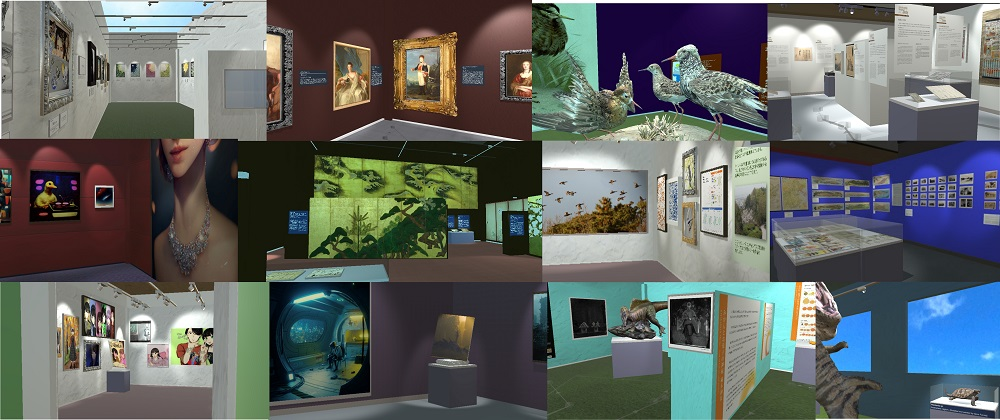
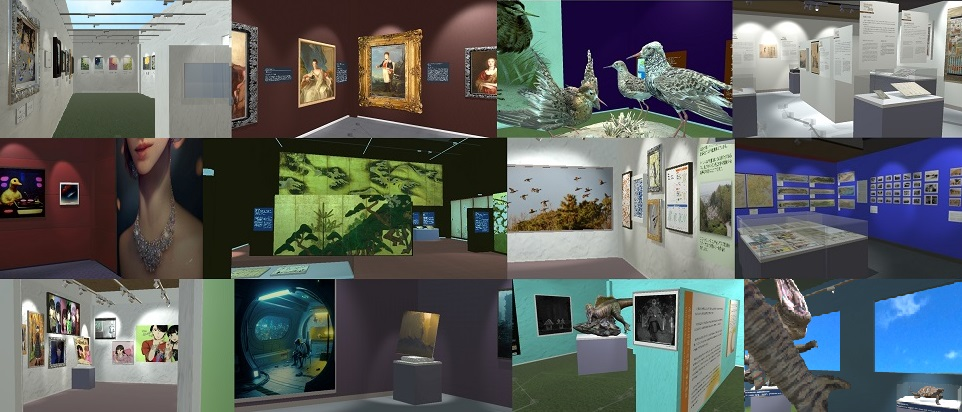
bg

diff --git a/css/style.css b/css/style.css
@@ -138,7 +138,7 @@ a, #primary, .item_box .icon, .team, .team .social, .team .social a, .service_ic
     -webkit-background-size: cover;
     -moz-background-size: cover;
     -o-background-size: cover;
-    background-size: cover;
+    background-size: contain;
     border-bottom: 4px solid #3498db;
 	/*-webkit-transform: translate3d(0, 0, 0);*/;
 }
